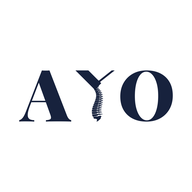
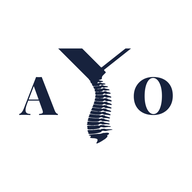
앱 아이콘 변경

Changed region(s): [[0.2812, 0.25, 0.6875, 0.75], [0.625, 0.3438, 0.9062, 0.6562], [0.0938, 0.3438, 0.375, 0.6562]]

diff --git a/index.html b/index.html
@@ -1058,7 +1058,7 @@
 <div class="wrap app">
   <aside class="side" aria-label="주 메뉴">
     <div class="side-brand">
[2 lines of base64/hex data omitted]
       <div><b id="sideName">아요바디요</b><span id="sideSub">체형·ROM·측만 측정</span></div>
     </div>
     <nav class="side-menu">
@@ -1087,7 +1087,7 @@
   </div>
   <header class="top">
     <div class="brand">
[2 lines of base64/hex data omitted]
       <div class="ttl">
         <p class="eyebrow" id="topEyebrow">아요바디요</p>
         <h1 id="pageTitle">체형 분석</h1>
@@ -1520,7 +1520,7 @@
     </div>
     <div class="rom-sum" id="romSum"></div>
     <div class="rom-grid" id="romGrid"></div>
-    <p class="rom-note">정상 각도는 일반적인 참고 범위예요. 촬영 각도·자세에 따라 달라질 수 있는 참고값이에요. <span style="opacity:.6">· 앱 버전 v95</span></p>
+    <p class="rom-note">정상 각도는 일반적인 참고 범위예요. 촬영 각도·자세에 따라 달라질 수 있는 참고값이에요. <span style="opacity:.6">· 앱 버전 v96</span></p>
   </section>
   <section class="view" id="view-scol" hidden>
     <div class="member-bar rom-mb" id="scolMember">
@@ -1537,7 +1537,7 @@
     <div class="rom-grid" id="scolGrid"></div>
     <div class="scol-info">
       <b>측만증 측정 (전방 굴곡 검사)</b> · 무릎을 펴고 허리를 숙인 자세를 정면(또는 뒤)에서 등 높이로 촬영 → 척추 양옆 같은 거리의 등 높이를 자동으로 찾아 수평선과의 각도(체간 회전각)를 계산해요. <b>5° 미만</b> 정상 범위, <b>5–7°</b> 관찰, <b>7° 이상</b>은 전문가 상담을 권장해요.<br>
-      촬영 조건에 따라 달라질 수 있는 스크리닝 참고값이며, 정확한 판단은 전문가와 상담하세요. <span style="opacity:.6">· 앱 버전 v95</span>
+      촬영 조건에 따라 달라질 수 있는 스크리닝 참고값이며, 정확한 판단은 전문가와 상담하세요. <span style="opacity:.6">· 앱 버전 v96</span>
     </div>
   </section>
   <section class="view" id="view-members" hidden>

diff --git a/sw.js b/sw.js
@@ -1,7 +1,7 @@
 /* AYO체형분석 — 서비스워커
    - 화면(index.html): 네트워크 우선 → GitHub에 올린 최신 버전이 바로 반영되고, 인터넷이 끊기면 저장본으로 열림
    - 인식 모델·라이브러리(MediaPipe)·글꼴: 한 번 받으면 폰에 저장해 두고 재사용 → 두 번째부터 빠르고 오프라인에서도 동작 */
-const VERSION = "pma-v63";
+const VERSION = "pma-v64";
 const SHELL = "pma-shell-" + VERSION;
 const ASSETS = "pma-assets-v1";   // 모델 파일은 버전과 무관하게 유지(약 25MB 재다운로드 방지)
 const SHELL_FILES = ["./", "./index.html", "./manifest.webmanifest",
